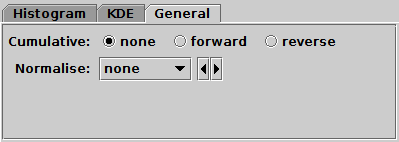
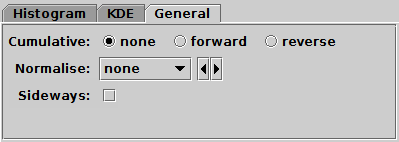
topcat: add Sideways selector to Histogram tab
The Sideways config toggle is now available from the General
tab of the Histogram window Bins control.

Changed region(s): [[0.0301, 0.6197, 0.3008, 0.7324]]

diff --git a/topcat/src/testcases/uk/ac/starlink/topcat/plot2/PlotTypeTest.java b/topcat/src/testcases/uk/ac/starlink/topcat/plot2/PlotTypeTest.java
@@ -1,0 +1,23 @@
+package uk.ac.starlink.topcat.plot2;
+
+import java.util.Arrays;
+import junit.framework.TestCase;
+import uk.ac.starlink.ttools.plot2.Plotter;
+import uk.ac.starlink.ttools.plot2.config.StyleKeys;
+import uk.ac.starlink.ttools.plot2.layer.FunctionPlotter;
+
+public class PlotTypeTest extends TestCase {
+
+    public void testSideways() {
+        int np = 0;
+        for ( Plotter<?> plotter :
+              HistogramPlotWindow.createHistogramPlotters() ) {
+            if ( ! ( plotter instanceof FunctionPlotter ) ) {
+                np++;
+                assertTrue( Arrays.asList( plotter.getStyleKeys() )
+                                  .contains( StyleKeys.SIDEWAYS ) );
+            }
+        }
+        assertTrue( np > 3 );
+    }
+}

diff --git a/topcat/src/main/uk/ac/starlink/topcat/plot2/HistogramAxisController.java b/topcat/src/main/uk/ac/starlink/topcat/plot2/HistogramAxisController.java
@@ -156,6 +156,7 @@ public class HistogramAxisController
         ConfigSpecifier genSpecifier = new ConfigSpecifier( new ConfigKey<?>[] {
             StyleKeys.CUMULATIVE,
             StyleKeys.NORMALISE,
+            StyleKeys.SIDEWAYS,
         } );
         ConfigControl barControl =
             new ConfigControl( "Bins", ResourceIcon.HISTOBARS );

diff --git a/topcat/src/main/uk/ac/starlink/topcat/plot2/HistogramPlotWindow.java b/topcat/src/main/uk/ac/starlink/topcat/plot2/HistogramPlotWindow.java
@@ -464,7 +464,7 @@ public class HistogramPlotWindow
      *
      * @return  histogram plotter list
      */
-    private static Plotter<?>[] createHistogramPlotters() {
+    static Plotter<?>[] createHistogramPlotters() {
         FloatingCoord xCoord = PlaneDataGeom.X_COORD;
         ConfigKey<Unit> unitKey = null;
         return new Plotter<?>[] {
